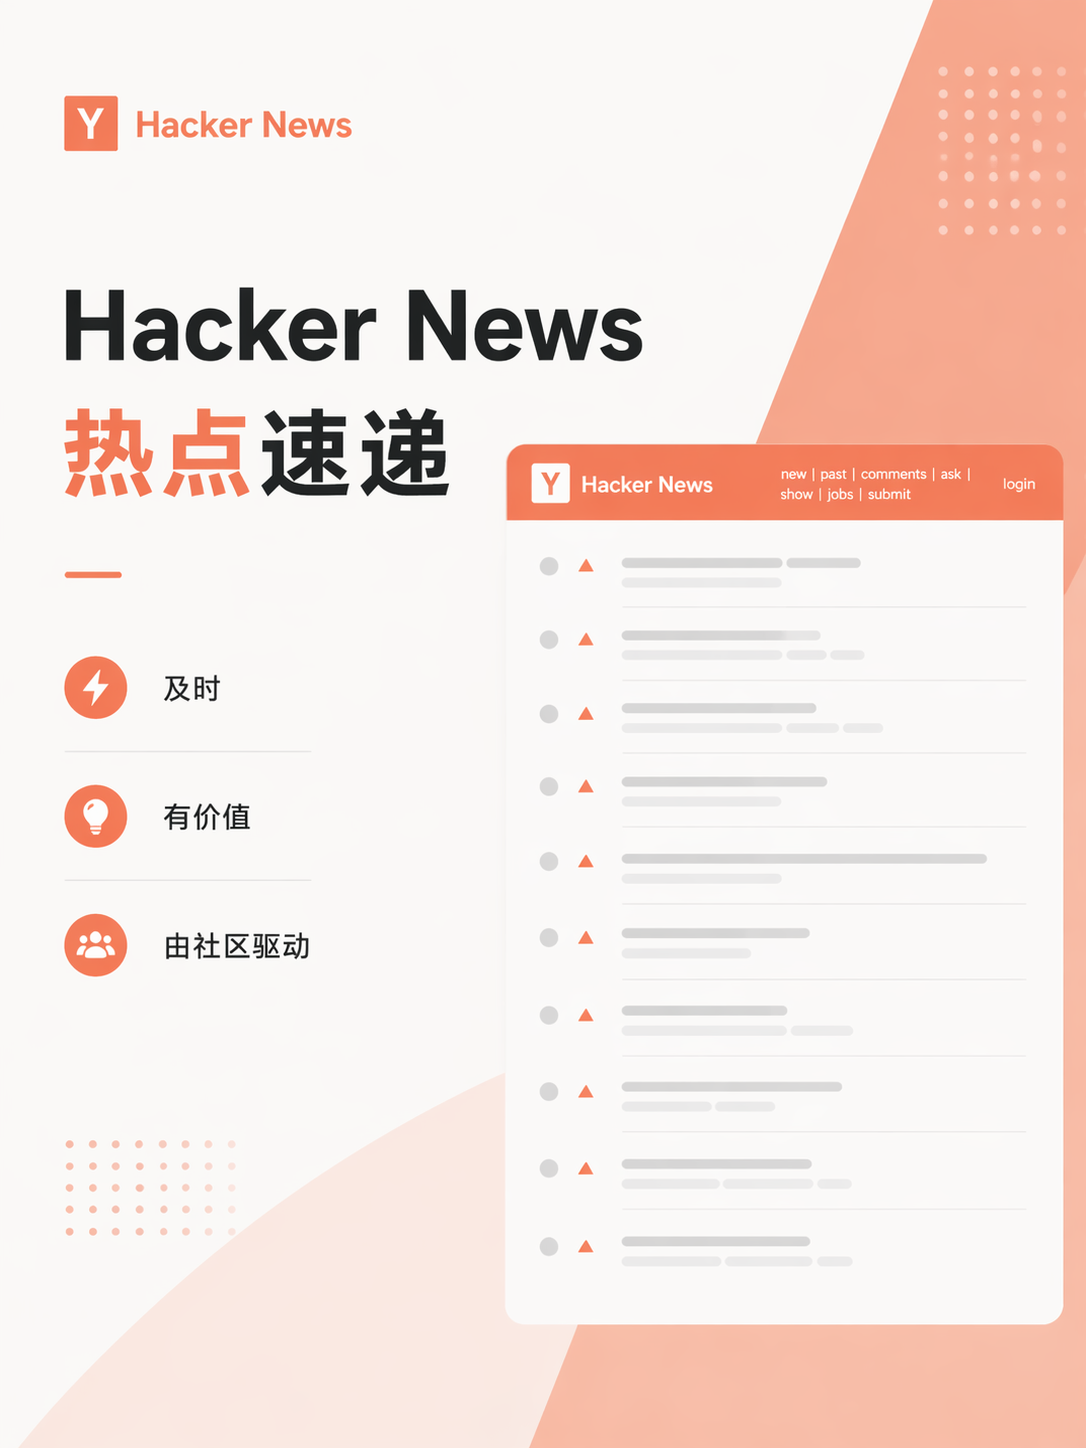
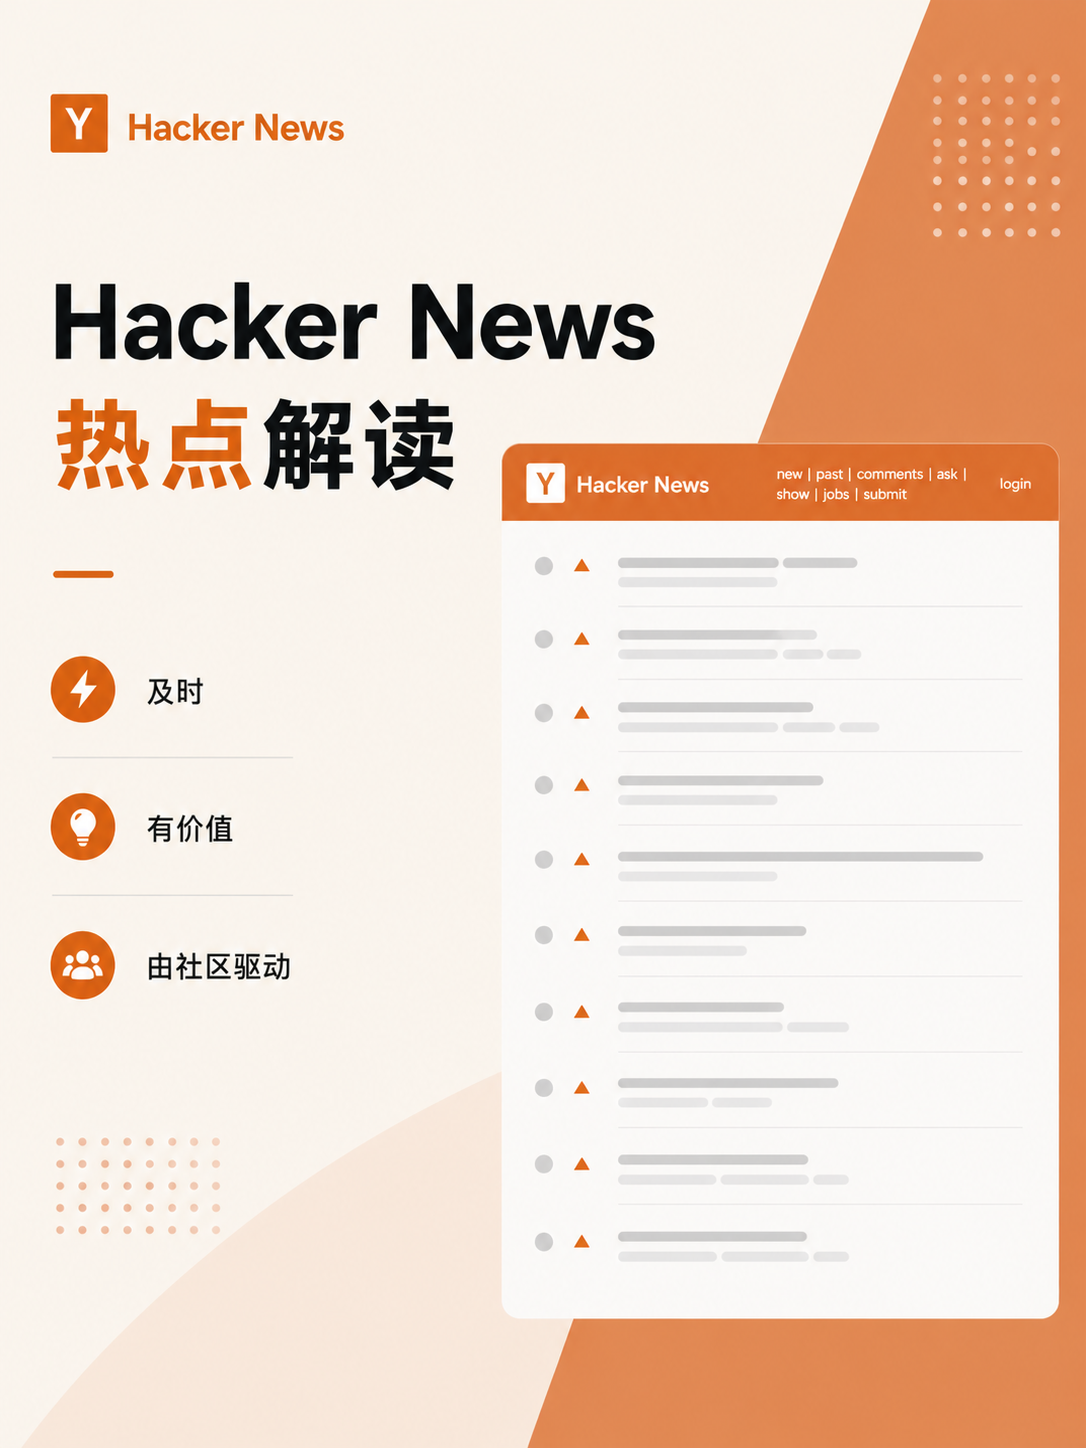
docs: rename '新闻速递' to '热点解读' to match updated cover images
The HackerNews and Reddit cover images (1080×1440 and 1920×1080) were
updated from '热点速递' to '热点解读'; sync the README/SKILL/eval-prompt
copy to use the same brand wording. GitHub/ProductHunt covers are not
updated in this PR. Doc + asset change, no behavior impact.

diff --git a/video_quality_eval_prompt.md b/video_quality_eval_prompt.md
@@ -1,13 +1,13 @@
 # 视频质量 LLM 评估 Prompt
 
-> 本 prompt 用于对 news-monitor 管线自动生成的新闻速递视频进行多维度质量评估。
+> 本 prompt 用于对 news-monitor 管线自动生成的热点解读视频进行多维度质量评估。
 > 评估模型需要同时接收：视频帧序列、旁白文本、deep_dive 源文件。
 
 ---
 
 ## 你的角色
 
-你是一位专业的视频内容质量审核员。你将收到一段由 AI 管线自动生成的科技新闻速递视频，以及生成该视频所依赖的全部源材料。你的任务是从 **9 个维度** 对视频进行严格、可量化的质量评估，并给出每个维度的分数（1-10）、具体扣分项和改进建议。
+你是一位专业的视频内容质量审核员。你将收到一段由 AI 管线自动生成的科技热点解读视频，以及生成该视频所依赖的全部源材料。你的任务是从 **9 个维度** 对视频进行严格、可量化的质量评估，并给出每个维度的分数（1-10）、具体扣分项和改进建议。
 
 维度按优先级从高到低排列（P0 > P1 > P2）。评估时应优先关注 P0 维度，P1/P2 维度的高分不能弥补 P0 维度的缺陷。
 

diff --git a/README.md b/README.md
@@ -1,6 +1,6 @@
 # news-video-maker
 
-> OpenClaw skill — 把深度调研报告自动转成带 TTS 旁白的 MP4 新闻速递视频。
+> OpenClaw skill — 把深度调研报告自动转成带 TTS 旁白的 MP4 热点解读视频。
 
 基于 GitHub、Hacker News、Reddit、Product Hunt 的深度调研内容（deep_dive 报告），自动生成横屏（1920×1080）和竖屏（1080×1440）两种格式的 MP4 视频。视频使用 [Remotion](https://www.remotion.dev/) + React 渲染，配合 CosyVoice TTS 旁白和平台专属配色，开箱即得评分 ≥9.0/10 的成片。
 
@@ -162,7 +162,7 @@ news-video-maker/
 
 ## 🔗 依赖的其他 Skill
 
-本 skill 仅负责视频制作。完整新闻速递管线还会用到：
+本 skill 仅负责视频制作。完整热点解读管线还会用到：
 
 | Skill | 仓库 | 作用 |
 |---|---|---|

diff --git a/SKILL.md b/SKILL.md
@@ -9,7 +9,7 @@ description: >
 
 # 新闻视频制作工具
 
-基于 GitHub、Hacker News、Reddit、Product Hunt 等平台的热门话题，自动生成带旁白的新闻速递视频。
+基于 GitHub、Hacker News、Reddit、Product Hunt 等平台的热门话题，自动生成带旁白的热点解读视频。
 
 支持平台：GitHub（蓝 #0969da）、Hacker News（橙 #ff6600）、Reddit（橙红 #ff4500）、Product Hunt（珊瑚红 #ff6154）。
 
